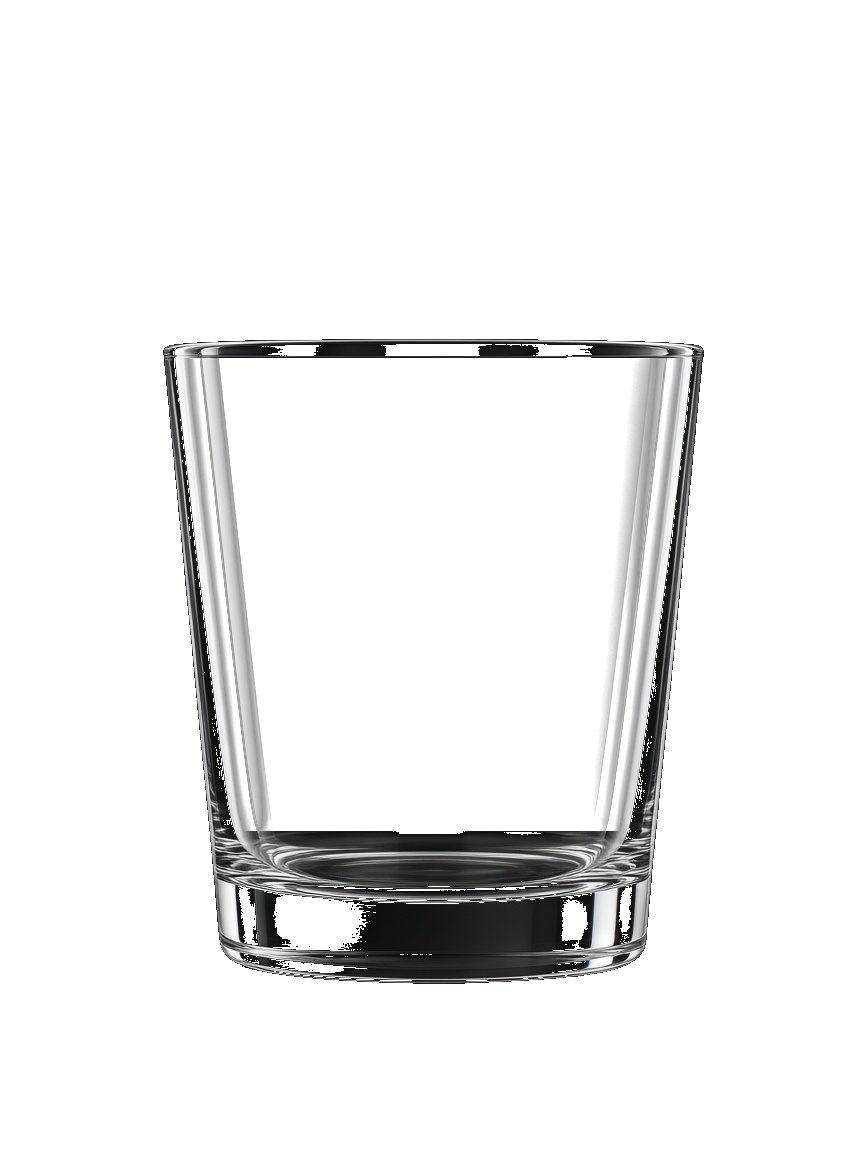
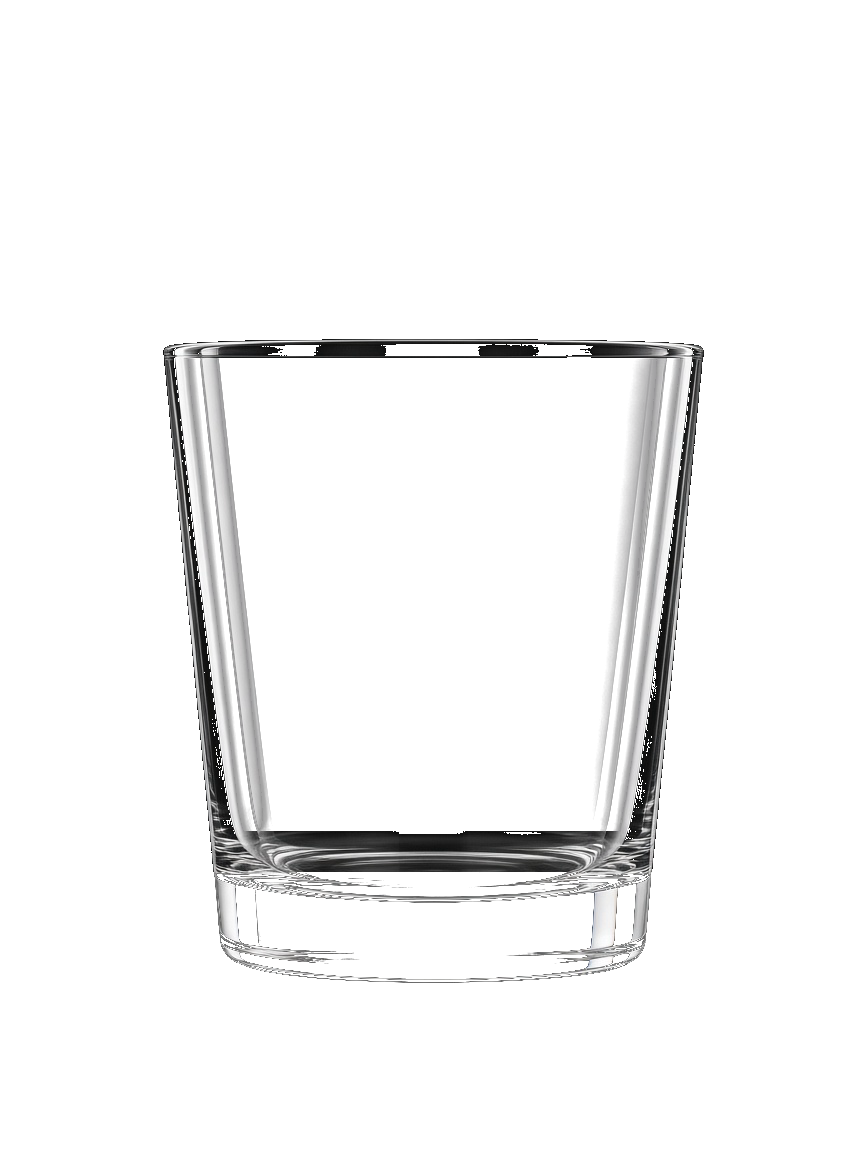
feat: 上限を15〜20にし、溢れの水は杯の足もとに溜める
対局が続くよう上限を広げ、サイズ選択はチップの絵にした。溢れた水は透明にした底を満たし、杯がその中に立つ。

Changed region(s): [[0.25, 0.75, 0.75, 0.875]]

diff --git a/components/play/overheat-chicken/OverheatGlass.tsx b/components/play/overheat-chicken/OverheatGlass.tsx
@@ -10,7 +10,9 @@ import {
 const RIM_Y = 360;
 /** 写真の上の余白と、底より下の空きを枠から外す。 */
 const FRAME_TOP = 185;
-const FRAME_BOTTOM = 1104;
+const FRAME_BOTTOM = 1032;
+/** 溢れた水が足もとを満たす上端。透明になった底のすぐ上。 */
+const FLOOR_Y = 868;
 const FRAME_H = FRAME_BOTTOM - FRAME_TOP;
 const DOME_CX = 432;
 const DOME_RX = 214;
@@ -24,34 +26,15 @@ const CHIP_DRAW: Record<ChipSize, number> = {
   m: 0.8,
   l: 1,
 };
-/** 底でのずれ。先の枚が下、あとの枚が少し上に重なる。x, 上方向。 */
-const CHIP_PILE: readonly [number, number][] = [
-  [0, 0],
-  [-46, 12],
-  [48, 10],
-  [-12, 26],
-  [34, 28],
-  [-44, 32],
-  [14, 44],
-  [-30, 46],
-  [40, 50],
-  [-6, 60],
-  [22, 64],
-  [-38, 66],
-  [8, 76],
-  [-20, 80],
-  [30, 82],
-  [-2, 92],
-  [16, 96],
-  [-24, 100],
-  [4, 108],
-  [-12, 116],
-  [20, 118],
-  [-32, 122],
-  [8, 128],
-  [-4, 136],
-  [24, 138],
-];
+/** 底に重ねる。枚数が増えても杯の下のほうに留まる。 */
+function pileSlot(index: number): [number, number] {
+  const cols = [0, -44, 46, -18, 24, -36, 14, 32, -8, 20];
+  const row = Math.floor(index / cols.length);
+  const stagger = row % 2 === 0 ? 0 : 7;
+  const dx = (cols[index % cols.length] ?? 0) + stagger;
+  const up = row * 13 + (index % 3) * 3;
+  return [dx, up];
+}
 
 /** 写真の外縁。y, 左, 右。 */
 const OUTER: readonly (readonly [number, number, number])[] = [
@@ -94,8 +77,8 @@ function dripPath(side: -1 | 1, bulge: number, y0: number): string {
   const startX = wallX(y0, side) + side * -4;
   const midY = 700;
   const midX = wallX(midY, side) + side * bulge;
-  const endX = wallX(930, side) + side * -2;
-  return `M ${startX} ${y0} Q ${midX} ${midY} ${endX} 1052`;
+  const endX = wallX(930, side) + side * 6;
+  return `M ${startX} ${y0} Q ${midX} ${midY} ${endX} 984`;
 }
 
 type Props = {
@@ -247,7 +230,7 @@ export function OverheatGlass({ state, label }: Props) {
             </g>
           ) : null}
           {chips.map((chip, index) => {
-            const [dx, up] = CHIP_PILE[index] ?? [0, 12];
+            const [dx, up] = pileSlot(index);
             const radius = COIN_R * CHIP_DRAW[chip.size];
             const cy = COIN_FLOOR - up + COIN_R - radius;
             return (
@@ -267,6 +250,32 @@ export function OverheatGlass({ state, label }: Props) {
             );
           })}
         </svg>
+        {over ? (
+          <svg
+            viewBox="0 0 864 1152"
+            className="overheat-spill pointer-events-none absolute inset-0 h-full w-full"
+            aria-hidden
+          >
+            <rect x="196" y={FLOOR_Y} width="472" height="132" fill="#22d3ee" />
+            <ellipse
+              className="overheat-puddle"
+              cx="432"
+              cy="996"
+              rx="328"
+              ry="32"
+              fill="#22d3ee"
+            />
+            <ellipse
+              className="overheat-puddle"
+              cx="432"
+              cy="1006"
+              rx="176"
+              ry="12"
+              fill="#e0faff"
+              opacity="0.75"
+            />
+          </svg>
+        ) : null}
         <img
           src="/games/overheat-chicken/glass.png"
           alt=""
@@ -314,14 +323,6 @@ export function OverheatGlass({ state, label }: Props) {
               stroke="#e0faff"
               strokeWidth="9"
               strokeLinecap="round"
-            />
-            <ellipse
-              className="overheat-puddle"
-              cx="432"
-              cy="1064"
-              rx="250"
-              ry="24"
-              fill="#67e8f9"
             />
           </svg>
         ) : null}

diff --git a/components/play/OverheatChickenGame.tsx b/components/play/OverheatChickenGame.tsx
@@ -139,18 +139,29 @@ export function OverheatChickenGame() {
       <OverheatGlass state={state} label={glassLabel} />
 
       {!over ? (
-        <div className="flex flex-wrap justify-center gap-3">
-          {CHIP_SIZES.map((size) => (
-            <button
-              key={size}
-              type="button"
-              disabled={state.placed >= MAX_CHIPS_PER_TURN}
-              onClick={() => place(size)}
-              className="min-h-12 min-w-[5.5rem] rounded-2xl border border-white/15 bg-white/5 px-4 py-3 text-base font-bold text-white transition hover:bg-white/10 disabled:cursor-not-allowed disabled:opacity-40 disabled:hover:bg-white/5"
-            >
-              {CHIP_LABEL[size]}
-            </button>
-          ))}
+        <div className="flex flex-wrap items-end justify-center gap-3">
+          {CHIP_SIZES.map((size) => {
+            const px = size === "s" ? 46 : size === "m" ? 60 : 76;
+            return (
+              <button
+                key={size}
+                type="button"
+                aria-label={CHIP_LABEL[size]}
+                disabled={state.placed >= MAX_CHIPS_PER_TURN}
+                onClick={() => place(size)}
+                className="rounded-full p-0.5 transition hover:bg-white/10 disabled:cursor-not-allowed disabled:opacity-40 disabled:hover:bg-transparent"
+              >
+                <img
+                  src={`/games/overheat-chicken/chip-${state.current}.png`}
+                  alt=""
+                  width={px}
+                  height={px}
+                  draggable={false}
+                  className="pointer-events-none block select-none"
+                />
+              </button>
+            );
+          })}
           <button
             type="button"
             disabled={state.placed < 1}

diff --git a/lib/play/overheat-chicken.ts b/lib/play/overheat-chicken.ts
@@ -1,7 +1,7 @@
 /** 縁まで満たした杯。水位が capacity を超えると、そのチップを入れた人の負け。 */
 
-export const CAPACITY_MIN = 6;
-export const CAPACITY_MAX = 12;
+export const CAPACITY_MIN = 15;
+export const CAPACITY_MAX = 20;
 export const MAX_CHIPS_PER_TURN = 3;
 
 export const CHIP_SIZES = ["s", "m", "l"] as const;
@@ -48,8 +48,8 @@ export type OverheatState = {
   visual: OverheatVisual;
 };
 
-/** あとの半ステップほど見た目の増分が小さい。枠の上を空けすぎない。 */
-const DOME_UNIT = 9.2;
+/** あとの半ステップほど見た目の増分が小さい。長い対局でも枠の上を空けすぎない。 */
+const DOME_UNIT = 4;
 
 function unit(seed: number, index: number): number {
   let n = Math.imul(Math.floor(seed * 997) + 1, 374761393) + Math.imul(index + 1, 668265263);
@@ -77,7 +77,7 @@ export function domeRise(state: OverheatState): number {
   let rise = 0;
   for (let i = 0; i < steps; i += 1) {
     const jitter = 0.82 + unit(state.visual.seed, i) * 0.36;
-    const fade = Math.exp(-i * 0.06);
+    const fade = Math.exp(-i * 0.028);
     rise += DOME_UNIT * state.visual.scale * jitter * fade;
   }
   return rise;

diff --git a/lib/games.ts b/lib/games.ts
@@ -443,7 +443,7 @@ const games: GameMeta[] = [
     players: "2",
     playersMin: 2,
     playersMax: 2,
-    durationMinutes: 2,
+    durationMinutes: 5,
     complexity: "easy",
     cpu: false,
     team: false,

diff --git a/docs/fiction-backlog.md b/docs/fiction-backlog.md
@@ -32,7 +32,7 @@
 | 1 | キング＆スパイ（仮） | `king-and-spy` | ルール草案中 | — | 非対称カード心理戦（各5枚・同時出し・ポイント2先取） | 5〜8分目安 | 『カイジ』Eカード |
 | 2 | リミテッド・エレメント | `limited-element` | 未 | — | 属性リソース管理・カウンティング | 軽量・3〜5分 | 『カイジ』限定ジャンケン |
 | 3 | ゴールド＆ジニー | `gold-and-genie` | 未 | — | 金貨倍増・強奪・反撃（6枚手札） | 軽量・3〜5分 | 『ジャンケットバンク』ジャックポット・ジニー |
-| 4 | オーバーヒート・チキンレース | `overheat-chicken` | **済** | **掲載中** | 杯に小中大のチップを1枚ずつ積み、溢れさせた方が負け。上限は水位6〜12で非公開。ドームは水位と連動するが高さだけでは逆算できない | 1〜2分 | 『ジョジョ』表面張力系ミニゲーム |
+| 4 | オーバーヒート・チキンレース | `overheat-chicken` | **済** | **掲載中** | 杯に小中大のチップを1枚ずつ積み、溢れさせた方が負け。上限は水位15〜20で非公開。ドームは水位と連動するが高さだけでは逆算できない | 数分 | 『ジョジョ』表面張力系ミニゲーム |
 | 5 | チョイス・ポーカー | `choice-poker` | 未 | — | 親が毎ラウンド勝負条件を選択するポーカー | 軽〜中・5〜10分 | 『賭ケグルイ』チョイス・ポーカー等 |
 | 6 | アンハッピーベースボール | `unhappy-baseball` | 未 | — | 投打の心理読み・競り（コース・球種・打球） | 軽〜中・5〜10分 | 『ジャンケットバンク』アンハッピーベースボール |
 | 7 | ジャックアウト | `jack-out` | 未 | — | ブラックジャック＋一部数字の情報隠蔽 | 軽〜中・5〜10分 | 『ジャンケットバンク』ジャックアウト |
@@ -84,7 +84,7 @@ No.10 は手札非公開・複数人のため、オンライン化は `star-trad
 - [x] **slug** 確定 → `overheat-chicken`
 - [x] **人数** → 2人
 - [x] **勝利条件** → 水を溢れさせた方の負け
-- [x] **1 手番** → チップを1枚ずつ、最大3枚。小+0.5、中+1、大+1.5。終了はボタン。上限は水位6〜12で非公開。開始水面は縁すれすれ。ドームは連動するが完全対応ではない。プレイ画面・結果に数字は出さない
+- [x] **1 手番** → チップを1枚ずつ、最大3枚。小+0.5、中+1、大+1.5。終了はボタン。上限は水位15〜20で非公開。開始水面は平ら。ドームは連動するが完全対応ではない。プレイ画面・結果に数字は出さない。サイズ選択はチップの絵
 - [x] **作品にない部分** → サイズと水位、1手番3枚と終了ボタン、上限の範囲、溢れの表示。液を足す操作と杯の傾きはなし
 - [x] オーナー承認（この対局の実装範囲）
 
@@ -110,3 +110,4 @@ No.10 は手札非公開・複数人のため、オンライン化は `star-trad
 | 2026-10-21 | No.4 を掲載（`listed: true`、`listedAt: 2026-10-21`） |
 | 2026-10-21 | No.4 の投入を1枚ずつに変更。サイズは小+0.5、中+1、大+1.5。手番の終了はボタン |
 | 2026-10-21 | No.4 の上限を水位6〜12に変更。開始は縁すれすれ。ドームの伸びは対局ごとにずらす |
+| 2026-10-21 | No.4 の上限を水位15〜20に変更。サイズ選択はチップの絵。溢れの水は杯の足もと |

diff --git a/games/overheat-chicken/rules.md b/games/overheat-chicken/rules.md
@@ -7,7 +7,7 @@
 | 項目 | 内容 |
 |---|---|
 | 人数 | 二人 |
-| プレイ時間 | おおよそ一分から二分 |
+| プレイ時間 | 数分 |
 | ジャンル | 心理戦 |
 
 本ページのルールはボドパッ！による解釈であり、公式商品・権利者による提供ではありません。作品では、一度に入れる量と溢れない上限の範囲は数として定まっていないため、その部分はサイト版です。
@@ -54,9 +54,9 @@
 - 水面は最初、縁の位置で平ら。表面張力のふくらみは、チップを入れてから乗る。縁の線は動きません
 - ふくらみは水位とともに大きくなる。小さいチップほど上がりは小さい。同じ入れ方でも、対局ごとに見え方は変わる
 - ふくらみの高さや形を見ても、どこで溢れるかは分からない
-- チップの色で、どちらが入れたかが分かります。絵の大きさは小・中・大です
+- チップの色で、どちらが入れたかが分かります。入れるボタンは、いまの手番の色で、小・中・大のチップの絵です
 - 水面が揺れるタイミングは対局ごとに違う。深いほど揺れは大きくなる
-- 溢れた手番では、ドームが割れ、左右の外側を水が落ち、底に水たまりができます。入れたチップは杯の底に残ります
+- 溢れた手番では、ドームが割れ、左右の外側を水が落ち、杯の足もとに水が広がります。杯はその水の中に立っています。入れたチップは杯の底に残ります
 - 水位、上限、上がり幅の数字は、プレイ中も終わったあとも出しません
 - 次のチップで必ず溢れるときだけ、その旨を手番に出します
 
@@ -66,8 +66,8 @@
 
 - 小は +0.5、中は +1、大は +1.5
 - 一手番に入れられるのは 3 枚まで。0 枚では終われない。3 枚入れても自動では手番が変わらない
-- 溢れない上限は 6〜12 の整数。開始時に等確率。水位が上限を超えたら、そのチップを入れた人の負け。ちょうどはセーフ
-- 水位 6 までは必ず耐える。水位 12 の次は、小でも必ず溢れる
+- 溢れない上限は 15〜20 の整数。開始時に等確率。水位が上限を超えたら、そのチップを入れた人の負け。ちょうどはセーフ
+- 水位 15 までは必ず耐える。水位 20 の次は、小でも必ず溢れる
 - 水位 0 の水面は縁で平ら。水位が上がるとふくらみは必ず高くなる。あとの半ステップほど見た目の増分は小さく、対局ごとの伸びとばらつきもある。高さから水位は逆算できない。大きいチップの見た目の増分は、同じ局面の小さいチップより大きい
 - 揺れ始めは見た目の高さのしきい値で、対局ごとに違う
 - これらの数字はプレイ画面・結果・ボタンに出さない

diff --git a/docs/game-catalog.md b/docs/game-catalog.md
@@ -26,7 +26,7 @@ npm run catalog:doc
 | はい | 2025-01-02 | ヘックス | `hex` | クラシック | 2 | 8 | やや難しい | はい | はい | ボード・そろえる・心理戦 | playable |
 | はい | 2025-01-16 | ウサギと猟犬 | `fox-hounds` | クラシック | 2 | 5 | 易しい | はい | はい | ボード・心理戦 | playable |
 | はい | 2026-10-10 | デジャリック | `dejarik` | フィクション | 2 | 10 | ふつう | はい | はい | ボード・コマ取り | playable |
-| はい | 2026-10-21 | オーバーヒート・チキンレース | `overheat-chicken` | フィクション | 2 | 2 | 易しい | — | — | 心理戦・運要素 | playable |
+| はい | 2026-10-21 | オーバーヒート・チキンレース | `overheat-chicken` | フィクション | 2 | 5 | 易しい | — | — | 心理戦・運要素 | playable |
 | はい | 2025-02-13 | ルドー | `ludo` | クラシック | 2〜4 | 12 | 易しい | — | — | ボード・コマ取り・すごろく・運要素 | playable |
 | はい | 2025-02-27 | 5五将棋 | `mini-shogi` | クラシック | 2 | 12 | ふつう | はい | はい | ボード・コマ取り・心理戦 | playable |
 | はい | 2025-03-13 | スライドパズル | `slide-puzzle` | クラシック | 1 | 5 | 易しい | — | — | ボード・そろえる | playable |
